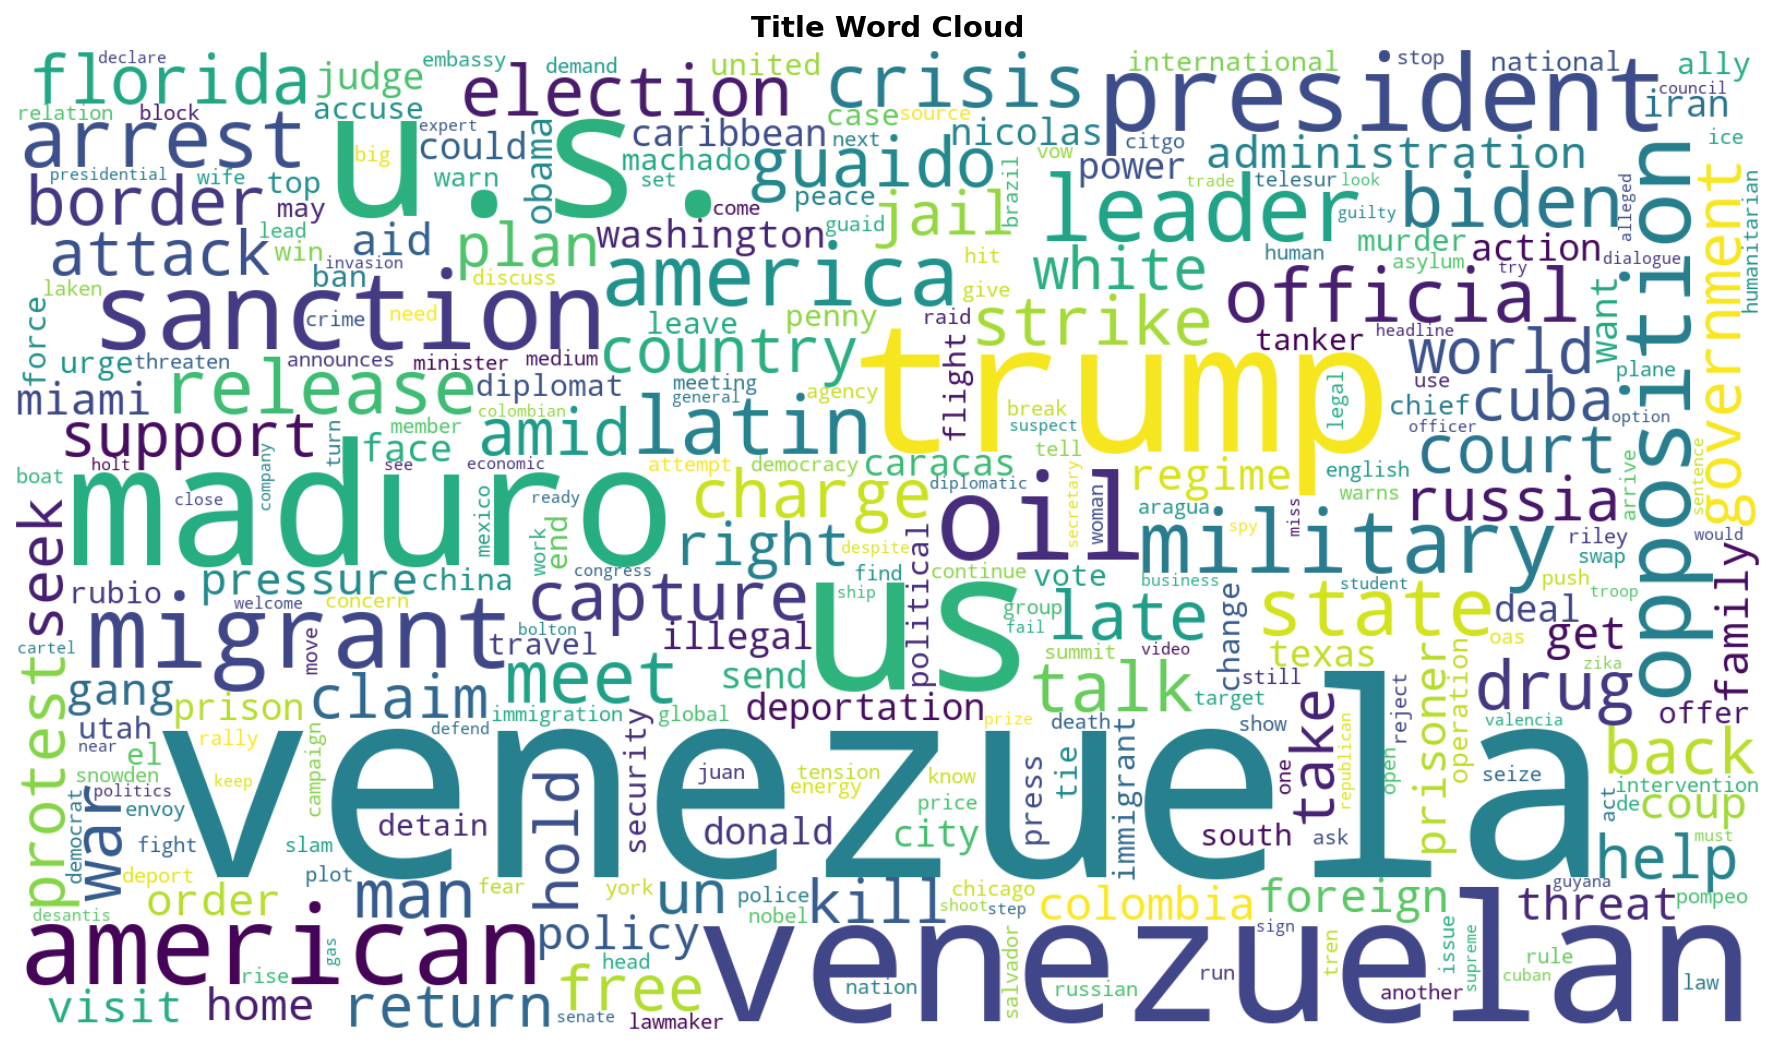
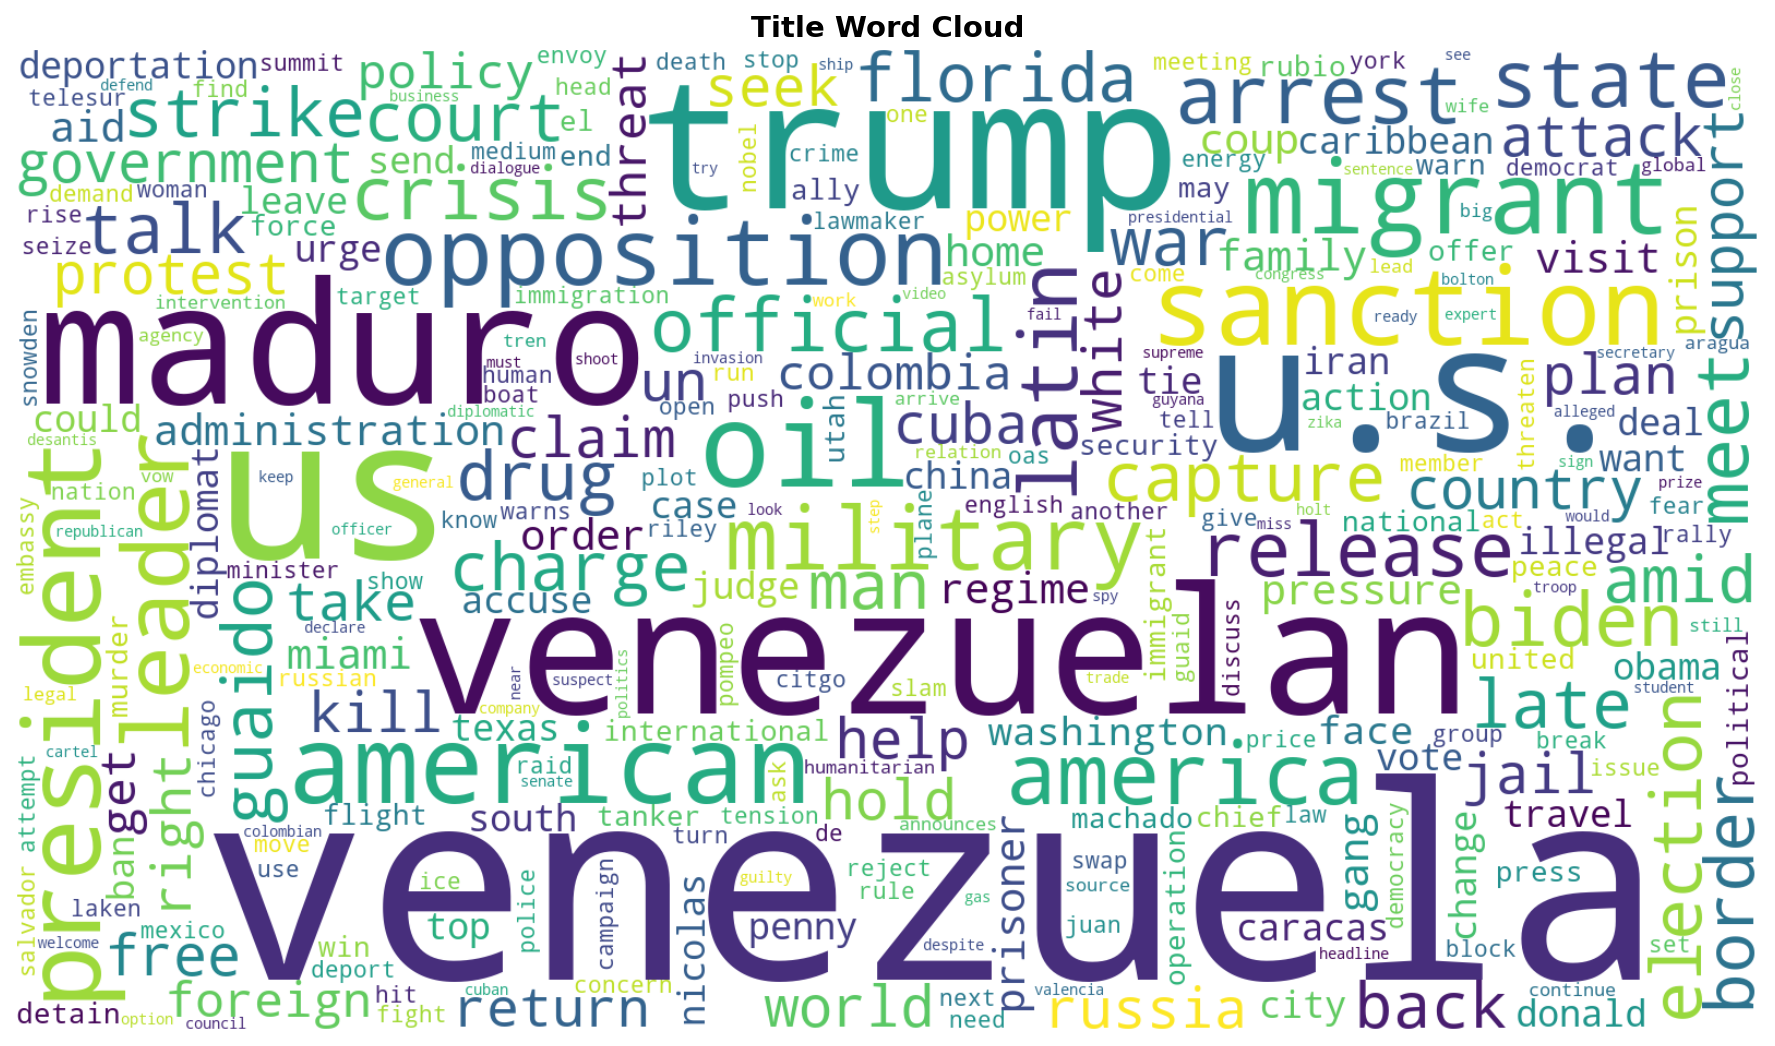
Update Venezuela GDELT discourse project files

diff --git a/venezuela-us-gdelt-discourse/eda/GDELT_EDA_Report.md b/venezuela-us-gdelt-discourse/eda/GDELT_EDA_Report.md
@@ -174,4 +174,4 @@
 
 ---
 
-*Generated: 2026-03-17*
+*Generated: 2026-03-18*
